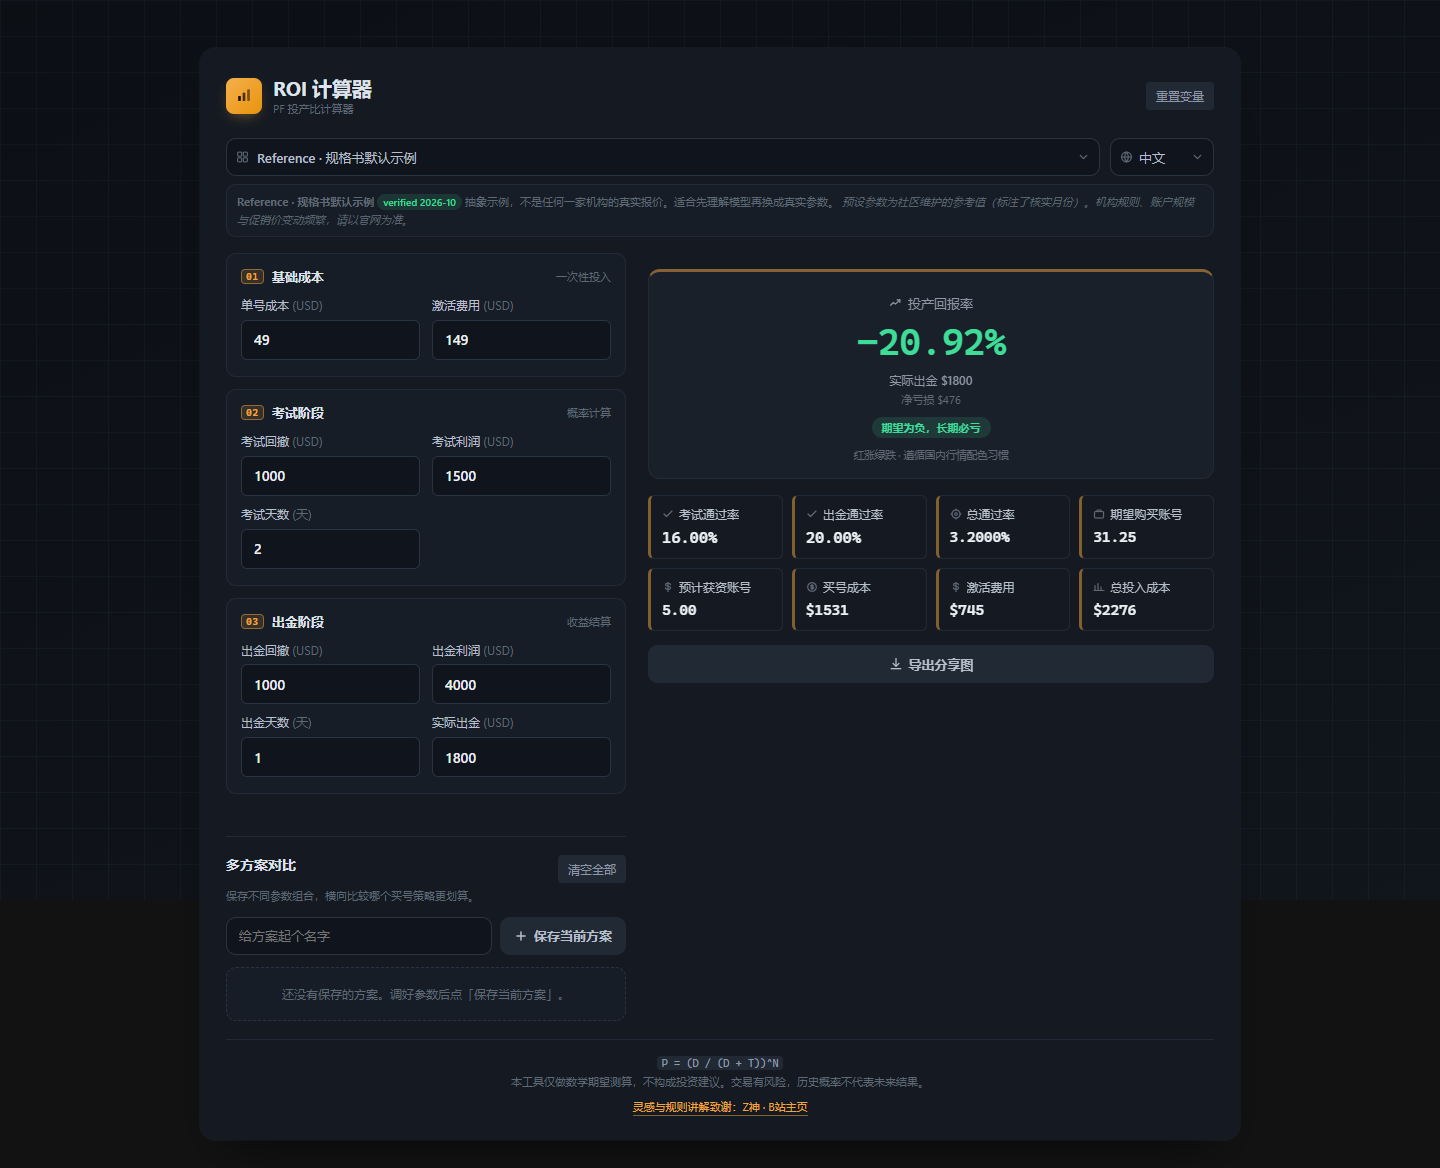
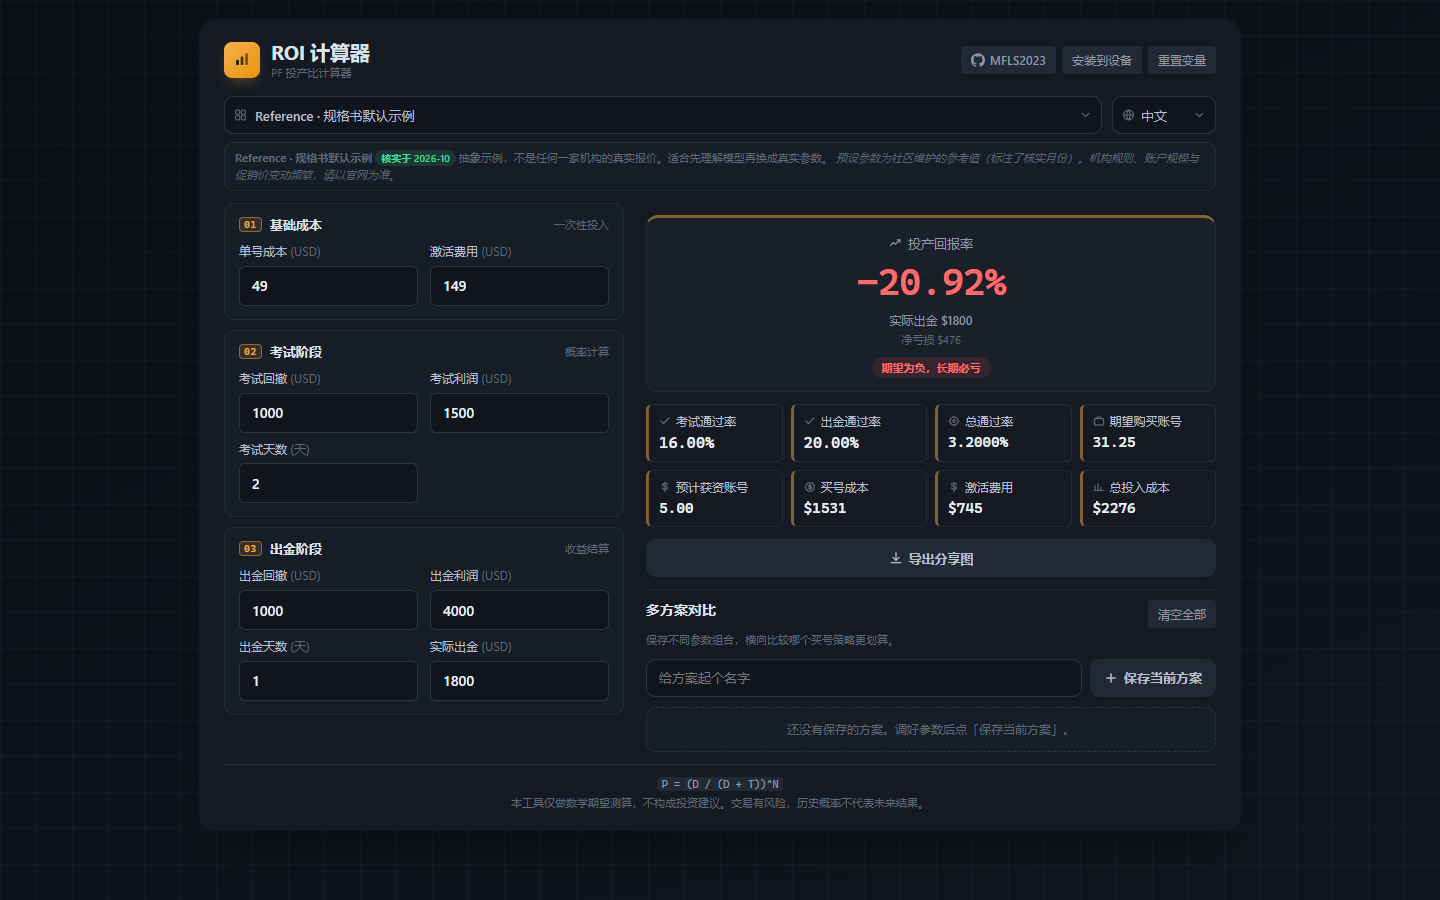
docs: changelog, README and screenshots for the palette and layout changes
- CHANGELOG gains an [Unreleased] section covering the new palette, the layout
  revision, the GitHub shortcut and every fix above.
- Both READMEs drop the Chinese-market colour description and the "in-app
  legend" claim, which no longer describe the product.
- Screenshots refreshed for the new layout and palette.

diff --git a/CHANGELOG.md b/CHANGELOG.md
@@ -7,23 +7,65 @@ and this project adheres to [Semantic Versioning](https://semver.org/spec/v2.0.0
 
 ## [Unreleased]
 
+### Changed
+
+- **P&L colours now follow the international convention** (green up / red down).
+  The previous Chinese-market palette (红涨绿跌) and its in-app legend are gone;
+  the exported share image was switched over too, so both surfaces agree.
+- **The scenario comparison panel moved into the results column**, directly under
+  "export share image". The whole tool now fits inside a 900px-tall viewport
+  without scrolling on desktop.
+- **Status colours are no longer borrowed from the P&L palette.** New `--success`
+  / `--danger` tokens drive toasts, invalid fields and the delete button, so
+  flipping the P&L convention can never silently recolour a status message.
+- **The preset reference note now survives manual edits.** It is driven by a new
+  `presetOrigin` field and gains an "inputs modified" badge, instead of vanishing
+  on the first keystroke — exactly when the caveats matter most.
+- **The footer acknowledgement line was removed** from the app; the credit lives
+  in the READMEs only.
+
+### Added
+
+- **GitHub shortcut in the header** — the repository handle and mark, linking to
+  `github.com/MFLS2023/pf-roi-calculator`.
+
+### Fixed
+
+- **Extreme inputs no longer render exponential notation.** `toFixed()` switches
+  to exponential form at 1e21, which used to leak 21-character strings such as
+  `9.999999999999985e+89` into ~90px metric tiles. Large magnitudes now use
+  compact suffixes (`12.0M`, `4.90T`) and fall back to a short `1.0e+45`; output
+  width is bounded and covered by tests.
+- **Out-of-range input is no longer silently ignored.** Typing `-50` into a
+  `min="0"` field used to leave the box showing `-50` while every metric was
+  computed from `0`. The field is now flagged while typing and snapped to the
+  nearest legal value on blur, so the box always shows what is being computed.
+- **Choosing "custom" in the preset dropdown no longer desynchronises the UI** —
+  it used to leave the dropdown reading "custom" while the note still described
+  the previous firm.
+- **`AppState.inputs` and `AppState.result.inputs` can no longer disagree** — all
+  input paths funnel through a single sanitising `commit()`.
+- Removed dead API (`peekName`, `focusName`, `focusFirst`) and a stale comment
+  referring to the long-gone `app.ts`.
+
+## [2.0.0] — 2026-10-04
+
 ### Added
 
 - **Original "terminal ledger" design language** — dark-first trading-terminal
   theme (deep blue-black surfaces, amber accent, sharp radii, mono numerals,
   subtle grid backdrop) with a warm-paper light mode. P&L colours follow the
-  Chinese market convention (红涨绿跌): gains are red, losses are green, with
-  an in-app legend for international users. The exported share image adopts the
-  same palette.
+  international convention (green up / red down). The exported share image
+  adopts the same palette.
 - **FundedNext Futures presets** — `Rapid Pro 25K` and `Flex 50K`, verified
   against the official rules pages and real community cash-outs (2026-10).
   These follow the community "averaging convention": because FundedNext's 40%
   consistency rule forces at least 3 days, the profit fields hold the per-day
   share of the target (e.g. 800÷3≈267) with `days = 3`, which reproduces the
   numbers taught in community material (Rapid 25K → ~5.08 accounts, ~+52% ROI).
-- **Attribution** — an Acknowledgements section (both READMEs) and an in-app
-  footer link crediting [Z-shen (Bilibili)](https://space.bilibili.com/101513971)
-  for the inspiration and the prop-firm rule walkthroughs behind the presets.
+- **Attribution** — an Acknowledgements section in both READMEs crediting
+  [Z-shen (Bilibili)](https://space.bilibili.com/101513971) for the inspiration
+  and the prop-firm rule walkthroughs behind the presets.
 
 ### Changed
 

diff --git a/README.zh-CN.md b/README.zh-CN.md
@@ -134,8 +134,7 @@ ROI = (实际出金 − 总投入成本) / 总投入成本 × 100%
 | 总投入成本 | `$2276` |
 | **投产回报率** | **`-20.92%`** |
 
-界面配色遵循国内行情习惯（红涨绿跌）：**盈利为红色，亏损为绿色**，应用内
-ROI 卡片下方有图例说明，英文界面也会给出对应提示。
+界面配色采用国际通行惯例：**盈利为绿色，亏损为红色**，与其他交易软件一致。
 
 ---
 
@@ -204,7 +203,7 @@ ROI 卡片下方有图例说明，英文界面也会给出对应提示。
 - **多方案对比** —— 最多保存 20 组参数横向比较 ROI，自动高亮最优方案，本地持久化。
 - **分享图导出** —— 1080×1350 PNG，带二维码，纯 Canvas 设备端绘制，无需服务端。
 - **深色优先的「终端账本」主题** —— 暗色行情终端风为主，另有暖纸色浅色模式。
-- **国内行情配色** —— 盈利红色、亏损绿色（红涨绿跌），应用内附图例说明。
+- **通行盈亏配色** —— 盈利绿色、亏损红色，与其他交易软件一致。
 - **减少动态效果** —— 尊重系统的「减弱动态效果」设置。
 - **深链** —— `?preset=ftmo-100k-1step` 可直接打开某个预设。
 - **不会算出 NaN** —— 所有输入路径统一走净化函数，任何组合都不会在界面上出现 `NaN` / `Infinity`。

diff --git a/README.md b/README.md
@@ -142,9 +142,8 @@ ROI = (actualPayout − totalCost) / totalCost × 100%
 | Total cost | `$2276` |
 | **ROI** | **`-20.92%`** |
 
-Negative expectancy is a *loss* — the UI colours follow the Chinese market
-convention (红涨绿跌): **gains are red, losses are green**. An in-app legend
-spells this out, and English users get a translated hint.
+Negative expectancy is a *loss* — the UI colours follow the international
+convention: **gains are green, losses are red**.
 
 ---
 
@@ -230,8 +229,8 @@ Adding a firm is a one-object change in `src/data/presets.ts` — see
 - **Share image export** — 1080×1350 PNG with a QR code, drawn on-device with
   Canvas. No `html2canvas`, no server.
 - **Dark mode** — dark-first "terminal ledger" theme with a warm-paper light mode.
-- **CN market colours** — gains are red, losses are green (红涨绿跌), with an
-  in-app legend for international users.
+- **Conventional P&L colours** — gains are green, losses are red, matching every
+  other trading tool.
 - **Reduced motion** — honours the OS `prefers-reduced-motion` setting.
 - **Deep links** — `?preset=ftmo-100k-1step` loads a preset directly.
 - **Zero-configurable-failure** — every input path is sanitised; no combination of
